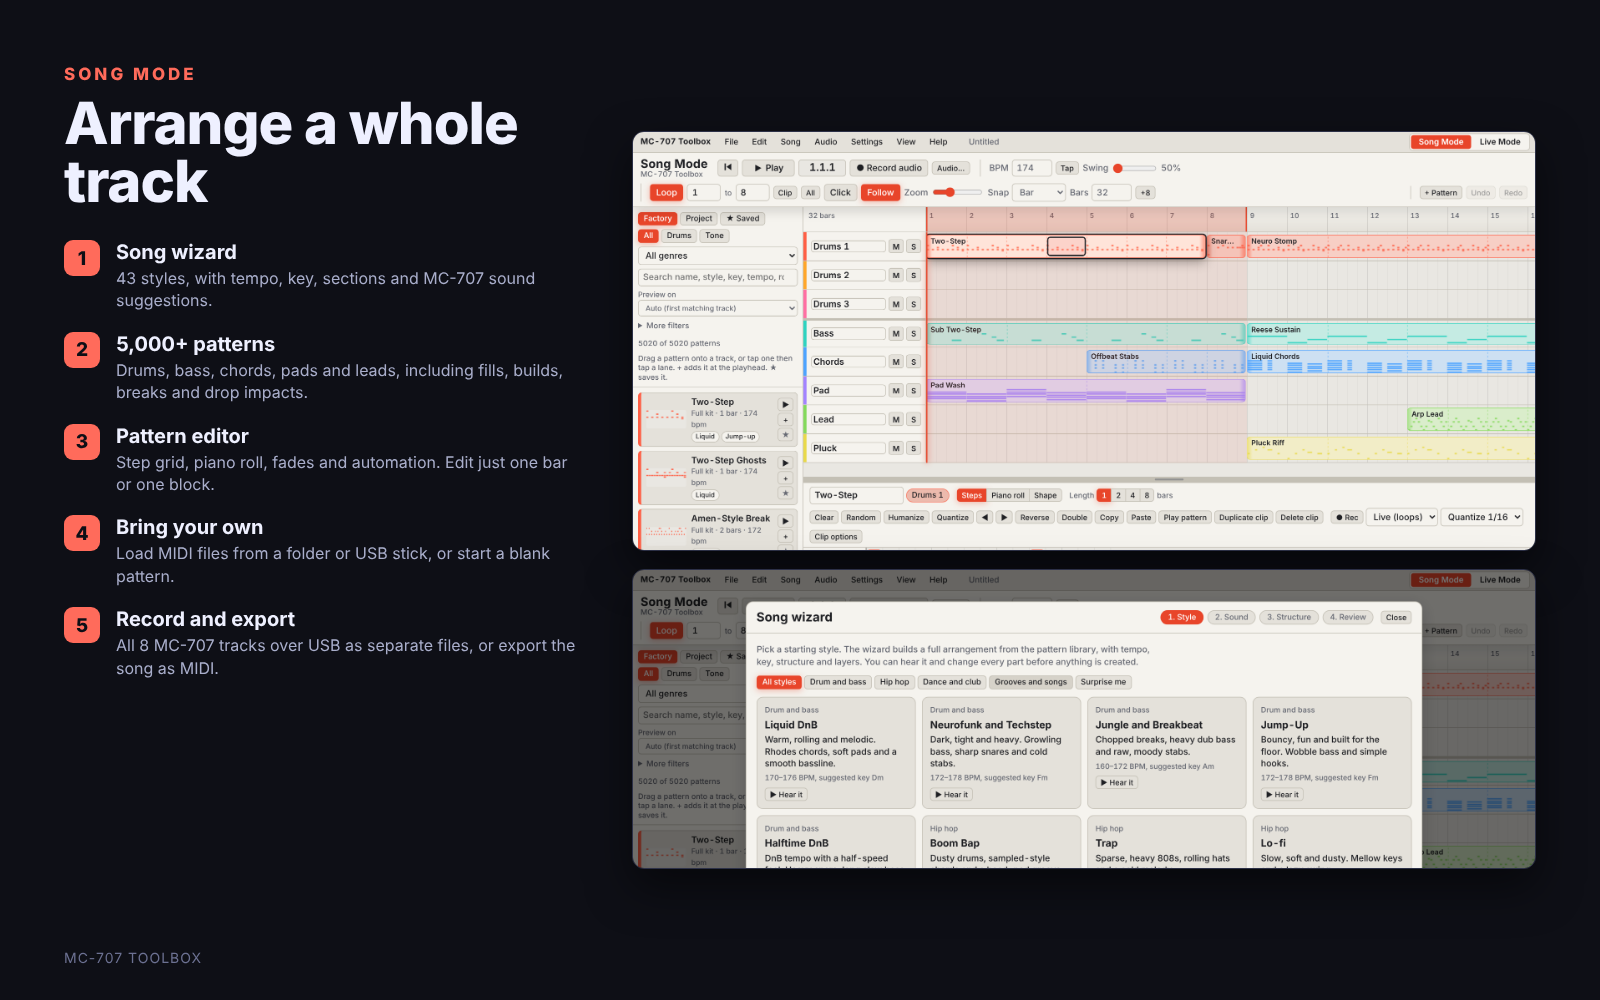
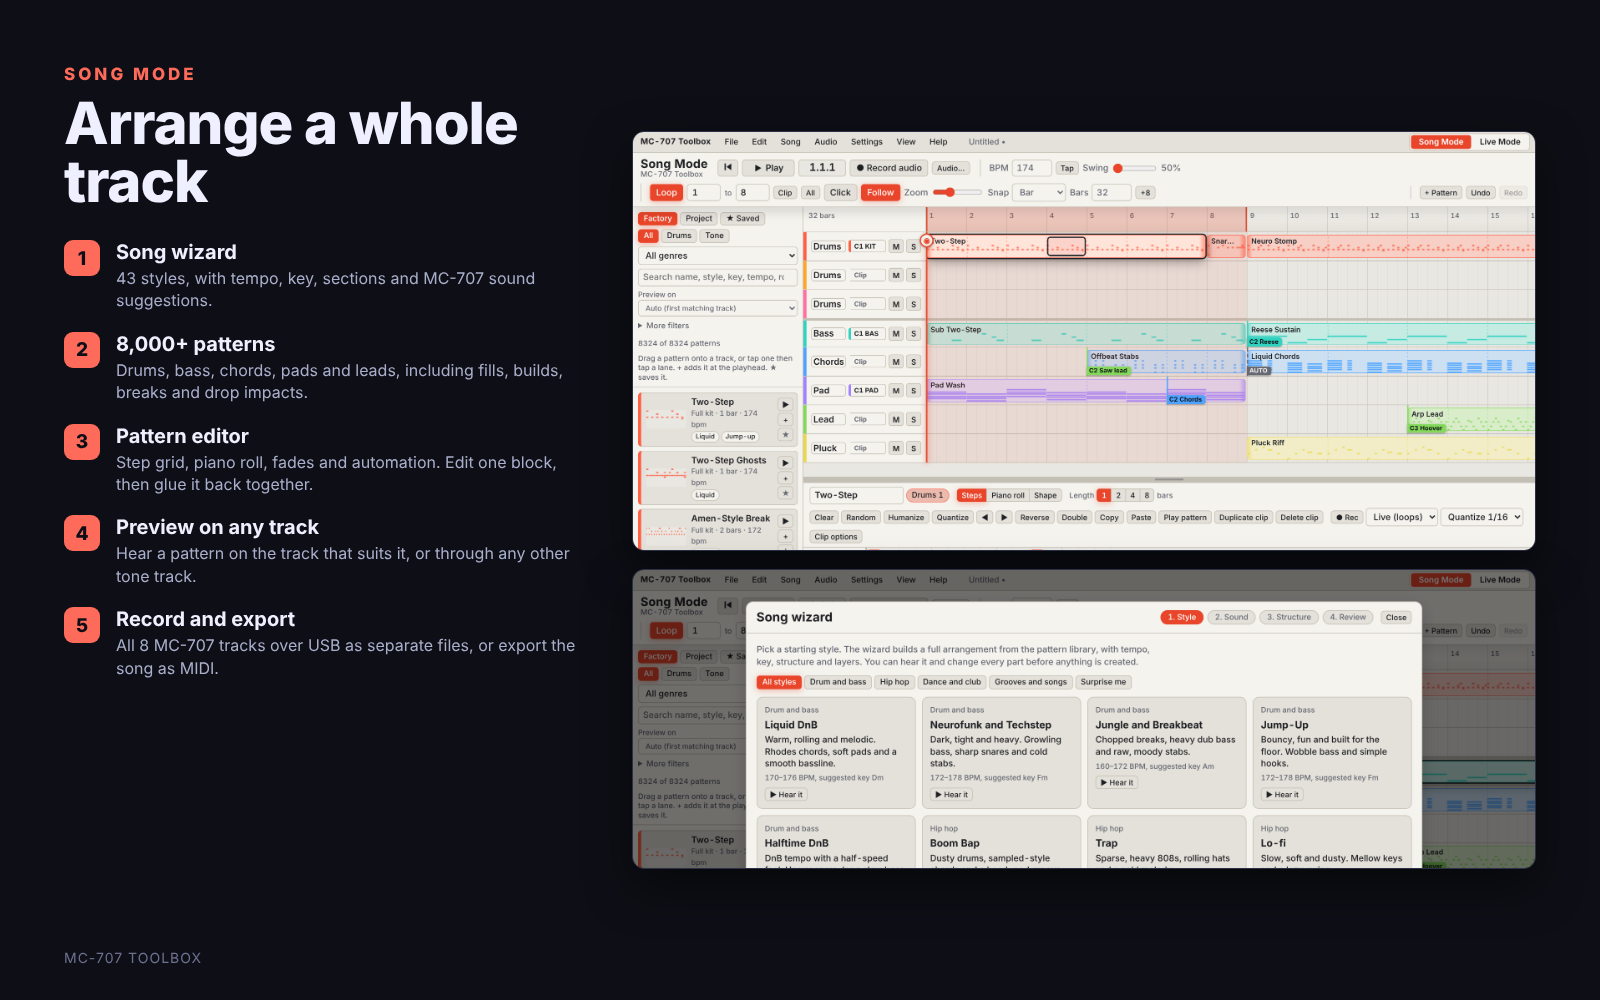
Update screenshots and feature cards for 0.10.0; add MC-707 clips and live tools cards
Claude-Session: https://claude.ai/code/session_013JHr4DUtWBdvd7qggkPUu7

diff --git a/README.md b/README.md
@@ -15,13 +15,15 @@ It has two modes, switched with the tabs at the top right:
 ![Song Mode](docs/song-mode.png)
 
 <details>
-<summary><b>Feature overview (5 cards)</b></summary>
+<summary><b>Feature overview (7 cards)</b></summary>
 
 ![Live Mode](docs/features/1-live-mode.png)
 ![Break and moves](docs/features/2-break-and-moves.png)
 ![Scenes](docs/features/3-scenes.png)
 ![Raven mode and controller keyboard](docs/features/4-raven-and-controller.png)
 ![Song Mode](docs/features/5-song-mode.png)
+![Your MC-707 clips](docs/features/6-mc707-clips.png)
+![Live tools](docs/features/7-live-tools.png)
 
 </details>
 
